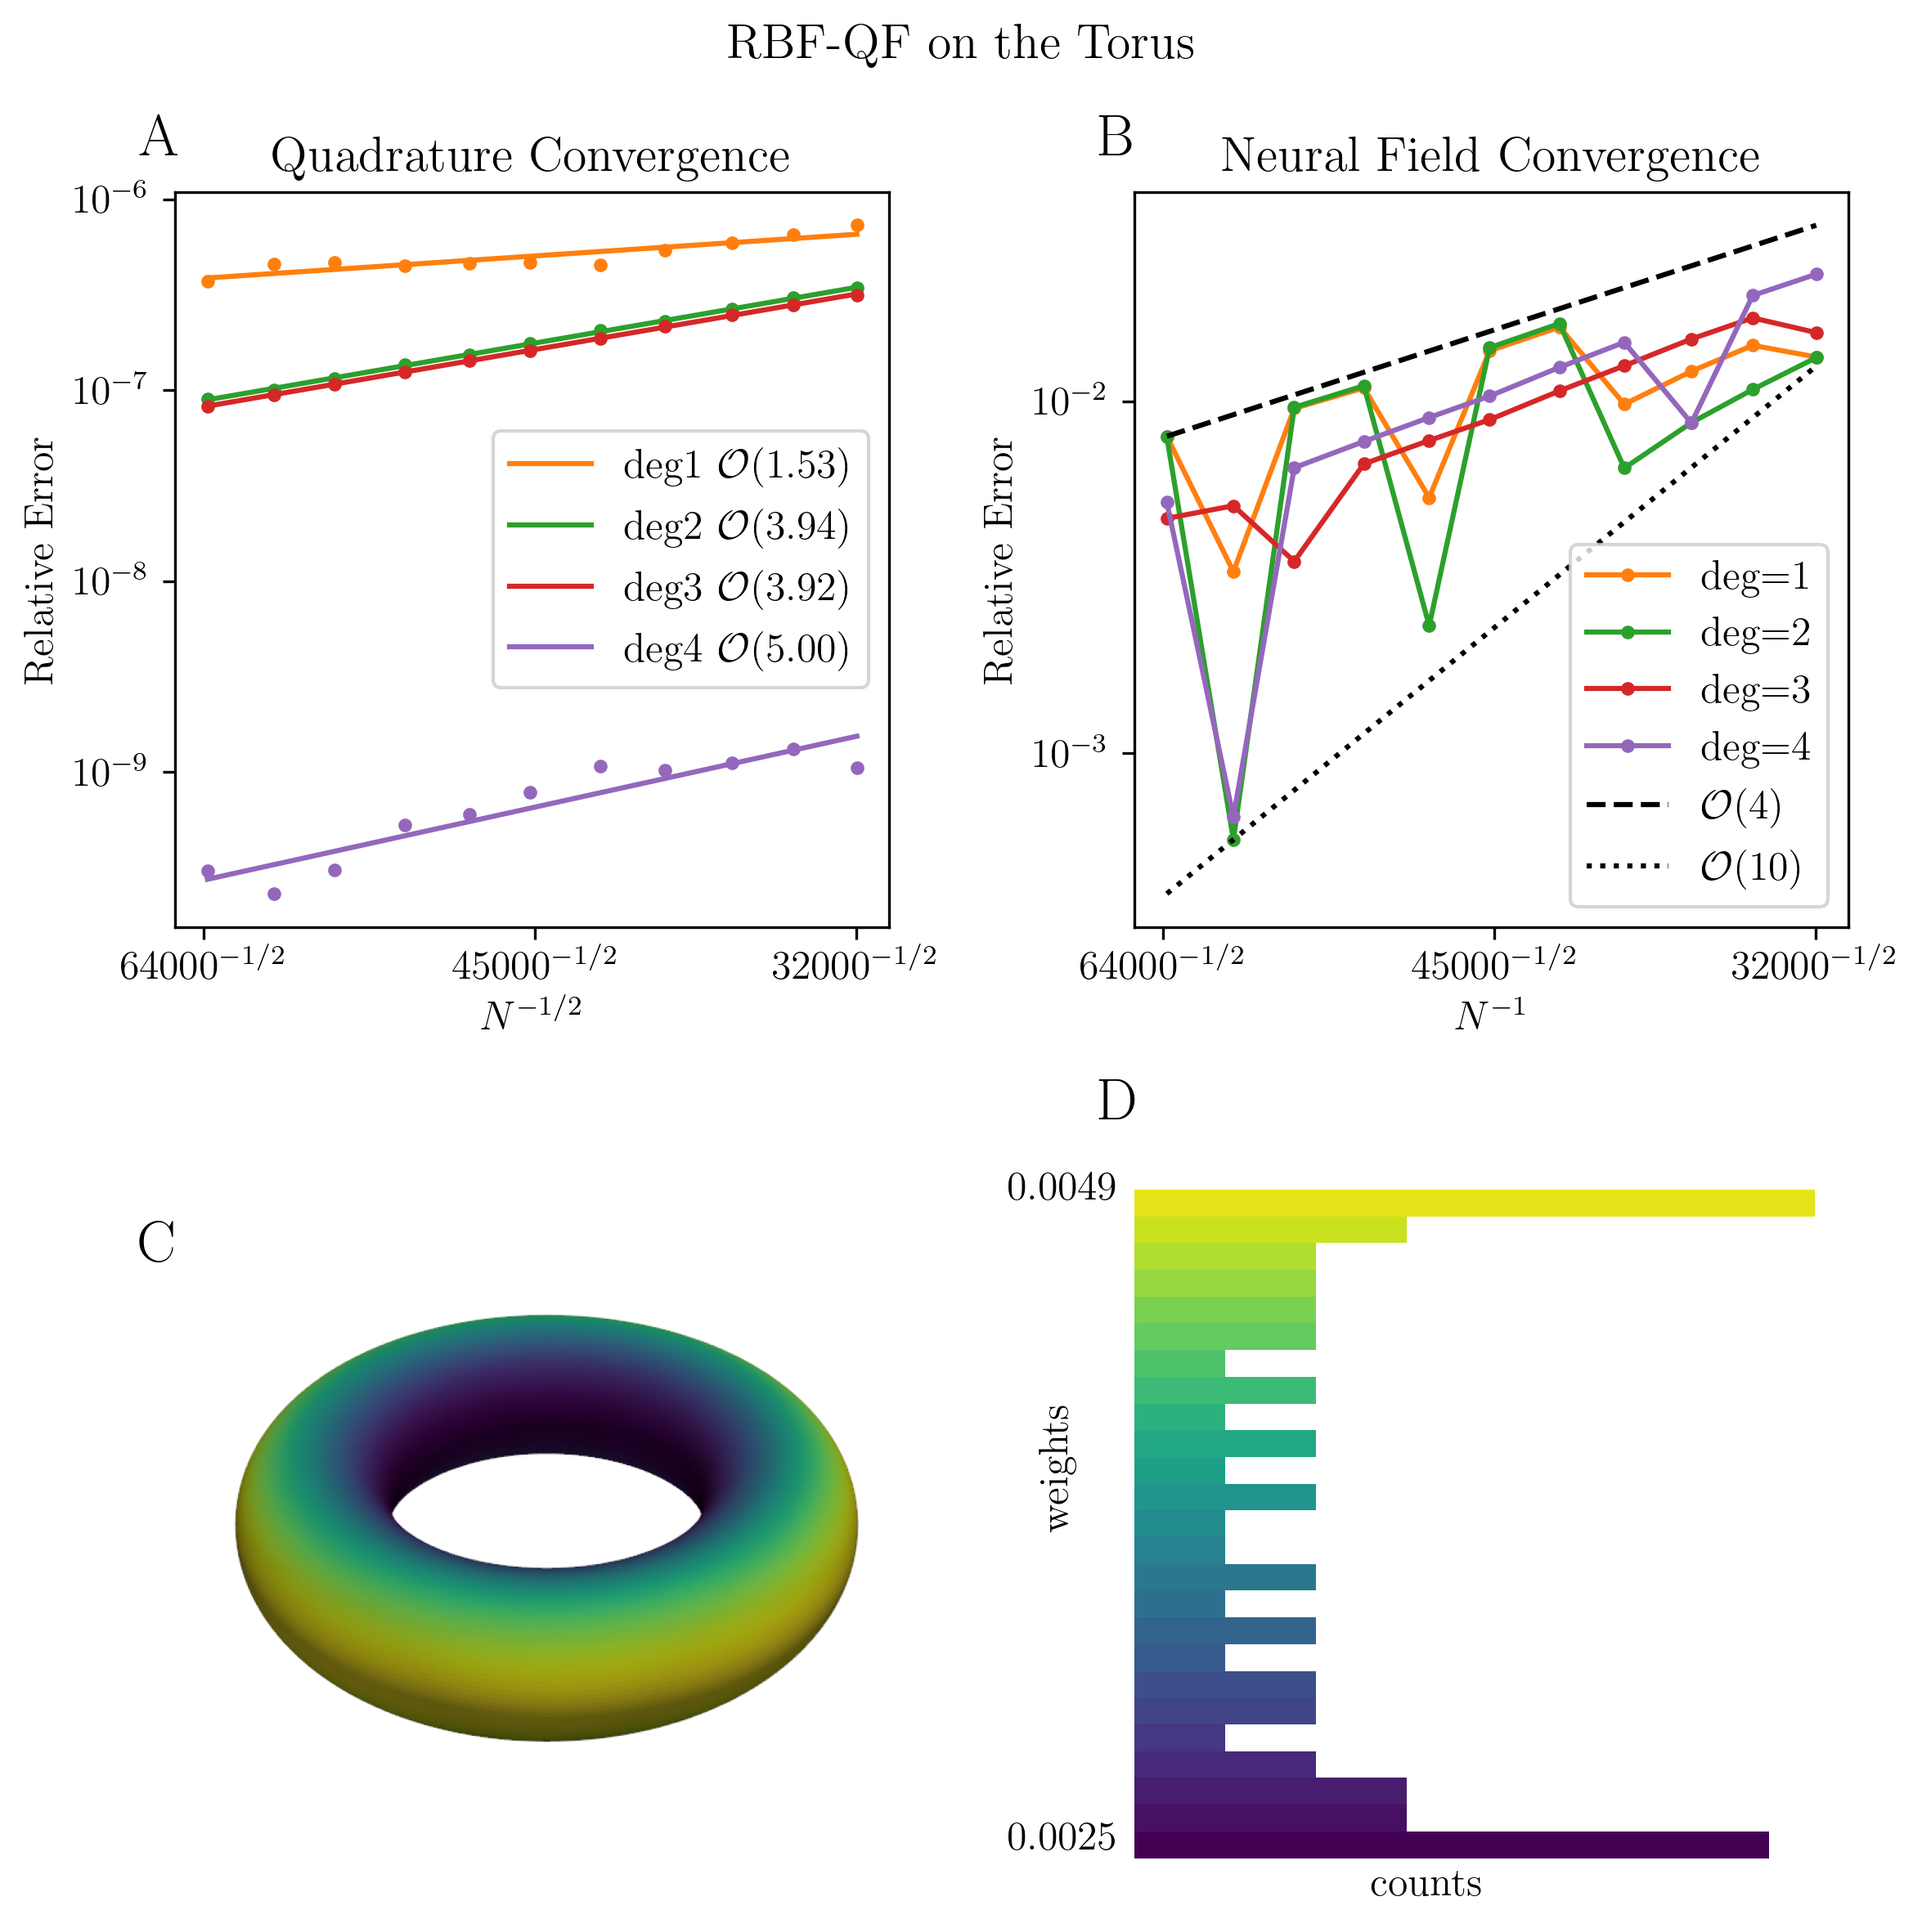
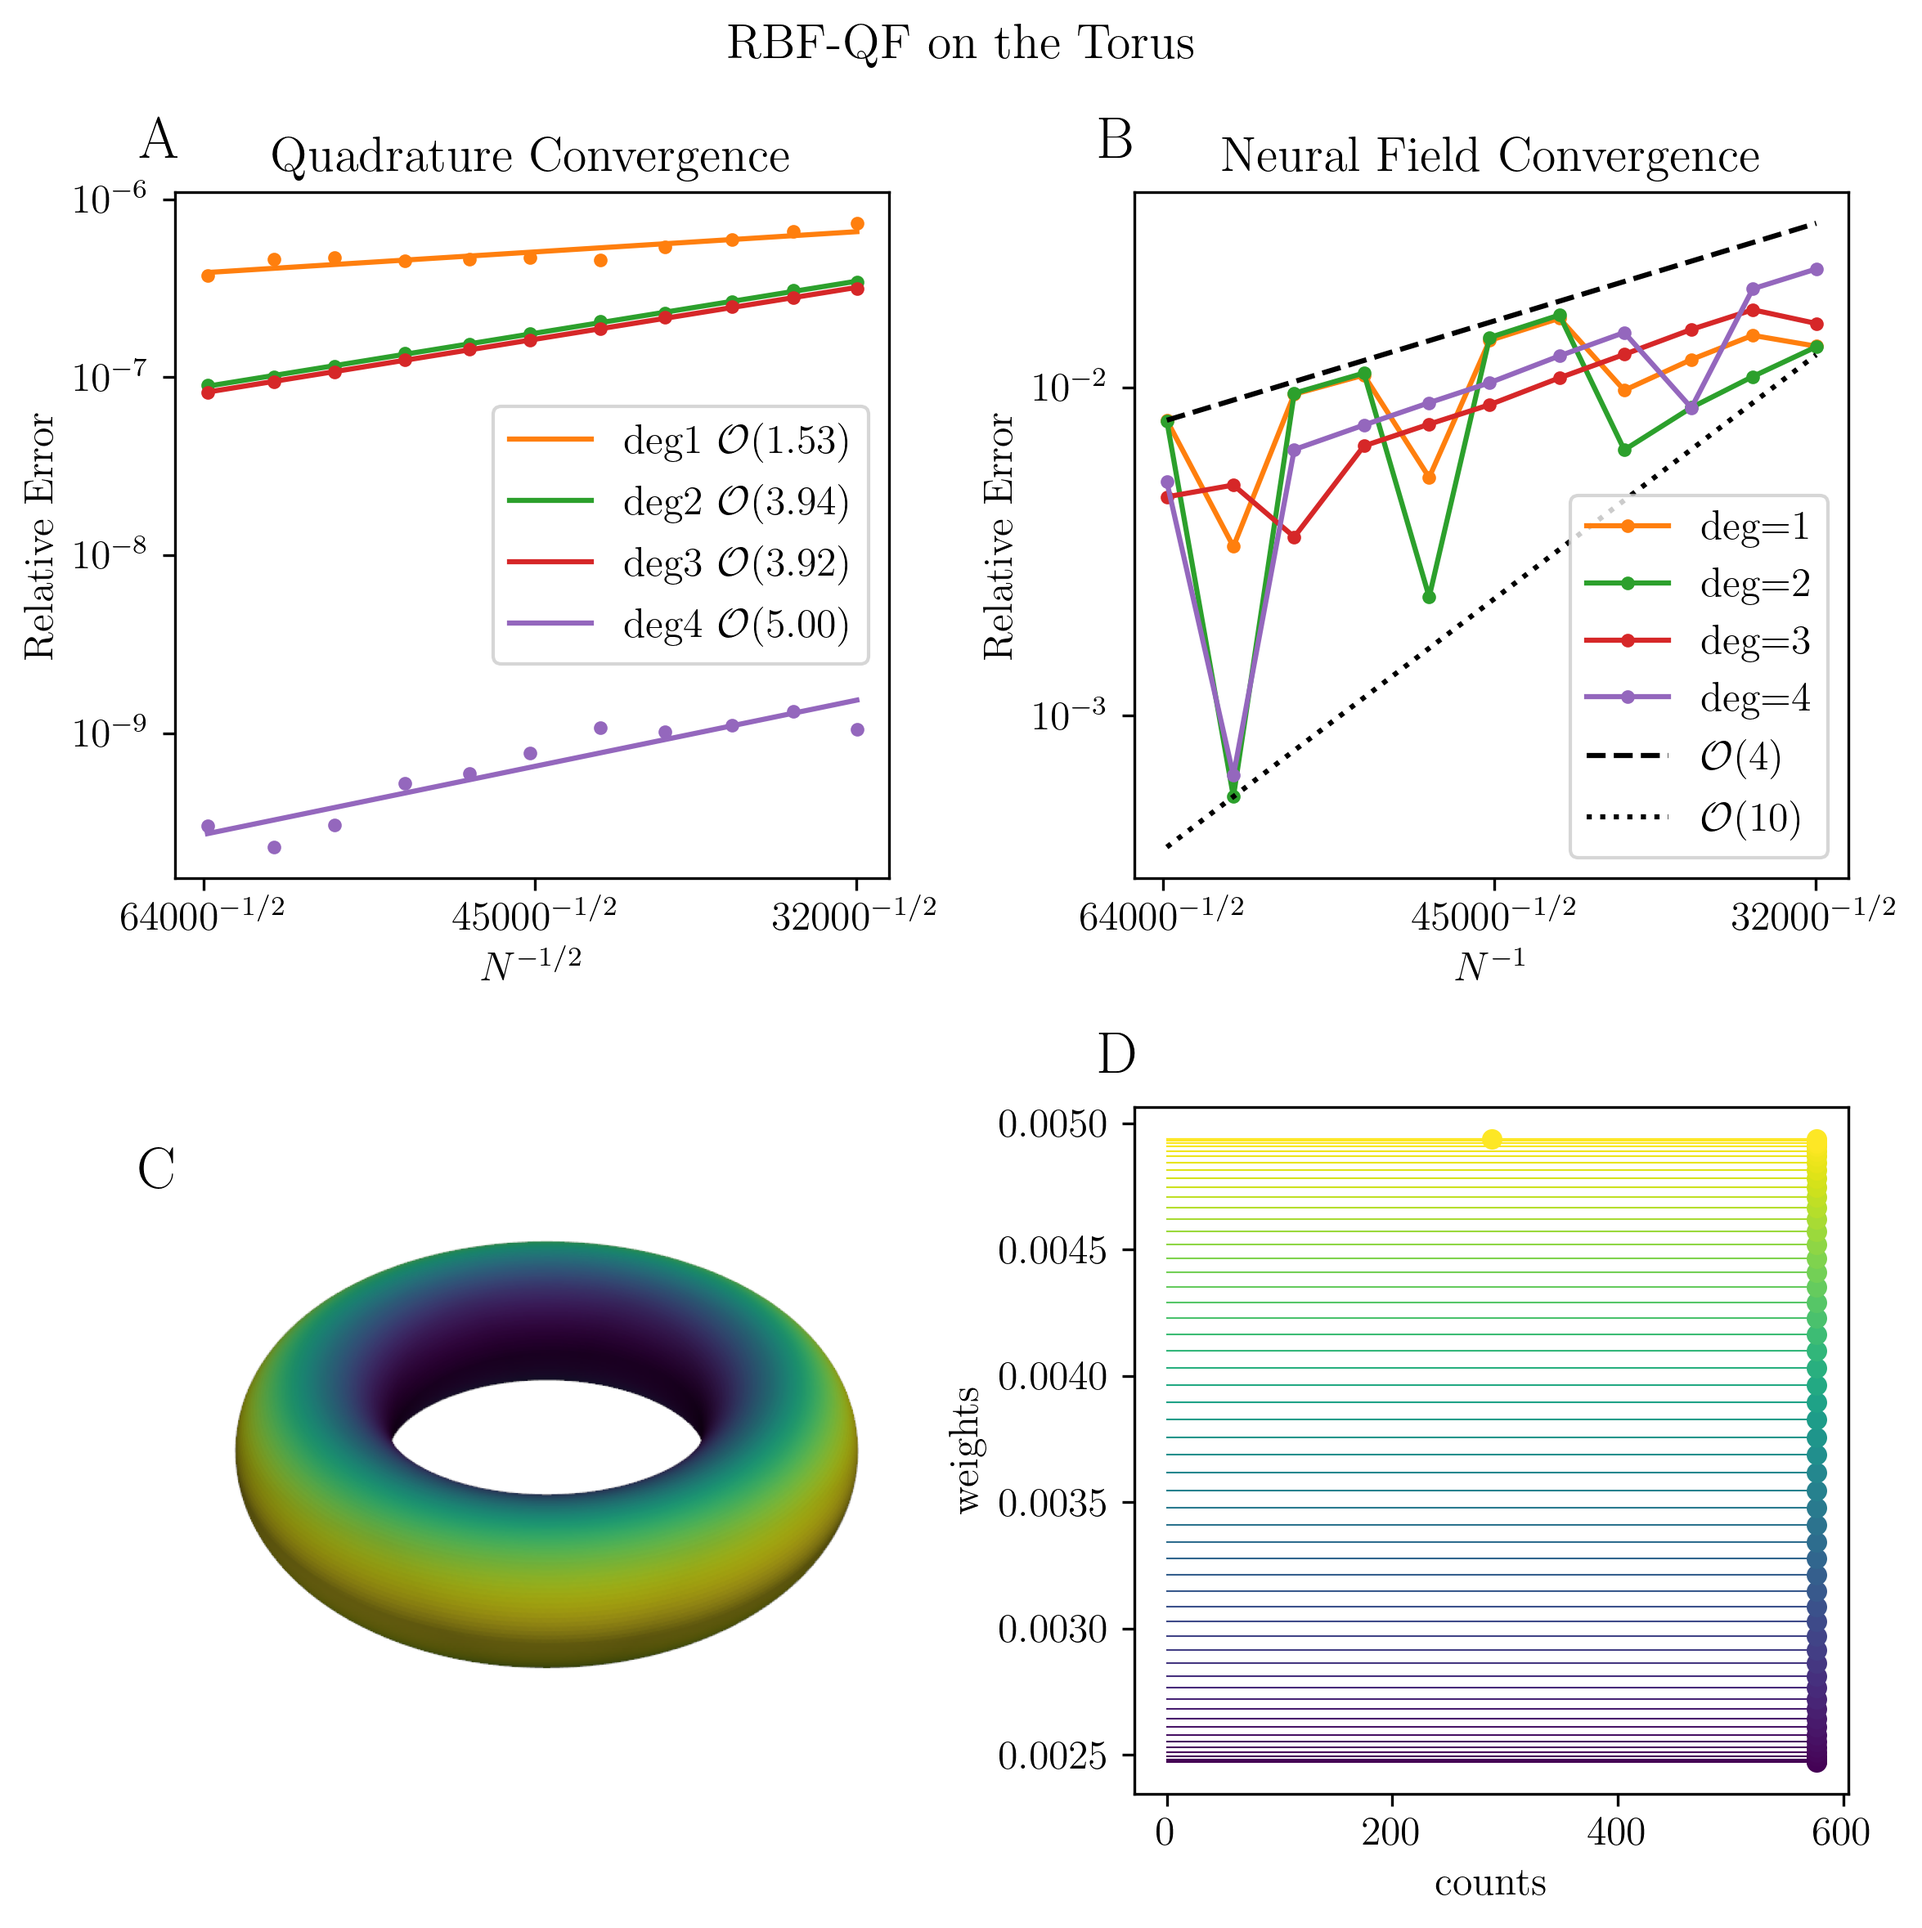
fixed histogram

diff --git a/figures/torus_convergence_figure.py b/figures/torus_convergence_figure.py
@@ -29,7 +29,6 @@ colors = {deg: color for deg, color in zip(range(10), TABLEAU_COLORS.keys())}
 #
 #############
 
-print("Generating Figure.")
 figsize = (8, 8)
 fig = plt.figure("flat convergence", figsize=figsize)
 
@@ -162,25 +161,39 @@ ax_weights.axis("off")
 with open("torus_convergence/data/torus_weights.pickle", "rb") as f:
     weights = pickle.load(f)
 
+rounded_weights = np.round(weights, 10)
+unique_weights = sorted(list(set(rounded_weights)))
+weight_counts = [
+    sum(1 for w in rounded_weights if w == weight) for weight in unique_weights
+]
+
 ax_hist = fig.add_subplot(grid[1, 1])
-_, bins, patches = ax_hist.hist(weights, bins=25, orientation="horizontal")
 cnorm = Normalize(np.min(weights), np.max(weights))
-for val, patch in zip(bins, patches):
-    patch.set_facecolor(plt.cm.viridis(cnorm(val)))
+for w, c in zip(unique_weights, weight_counts):
+    color = plt.cm.viridis(cnorm(w))
+    ax_hist.plot([0, c], [w, w], "-", color=color, markersize=10, linewidth=0.5)
+    ax_hist.plot([c], [w], ".", color=color, markersize=10, linewidth=0.5)
+
+ax_hist.set_xlabel("counts")
+ax_hist.set_ylabel("weights")
+# _, bins, patches = ax_hist.hist(weights, bins=25, orientation="horizontal")
+# for val, patch in zip(bins, patches):
+#     patch.set_facecolor(plt.cm.viridis(cnorm(val)))
 
 # ax_hist.set_xlabel("Counts")
 # ax_hist.set_ylabel("weight")
-max_weight_marker = np.round(np.max(weights), 4)
-min_weight_marker = np.round(np.min(weights), 4)
-ax_hist.axis("off")
-ax_hist.text(-800, max_weight_marker, f"{max_weight_marker:.4f}")
-ax_hist.text(-800, min_weight_marker, f"{min_weight_marker:.4f}")
-ax_hist.text(-600, (max_weight_marker + min_weight_marker) / 2, "weights", rotation=90)
-ax_hist.text(
-    1500,
-    min_weight_marker - (max_weight_marker - min_weight_marker) * 0.07,
-    "counts",
-)
+# max_weight_marker = np.round(np.max(weights), 4)
+# min_weight_marker = np.round(np.min(weights), 4)
+# max_count = max(weight_counts)
+# ax_hist.axis("off")
+# ax_hist.text(-0.25*max_count, max_weight_marker, f"{max_weight_marker:.4f}")
+# ax_hist.text(-0.25*max_count, min_weight_marker, f"{min_weight_marker:.4f}")
+# ax_hist.text(-0.15*max_count, (max_weight_marker + min_weight_marker) / 2, "weights", rotation=90)
+# ax_hist.text(
+#     max_count/2,
+#     min_weight_marker - (max_weight_marker - min_weight_marker) * 0.07,
+#     "counts",
+# )
 
 
 #############
